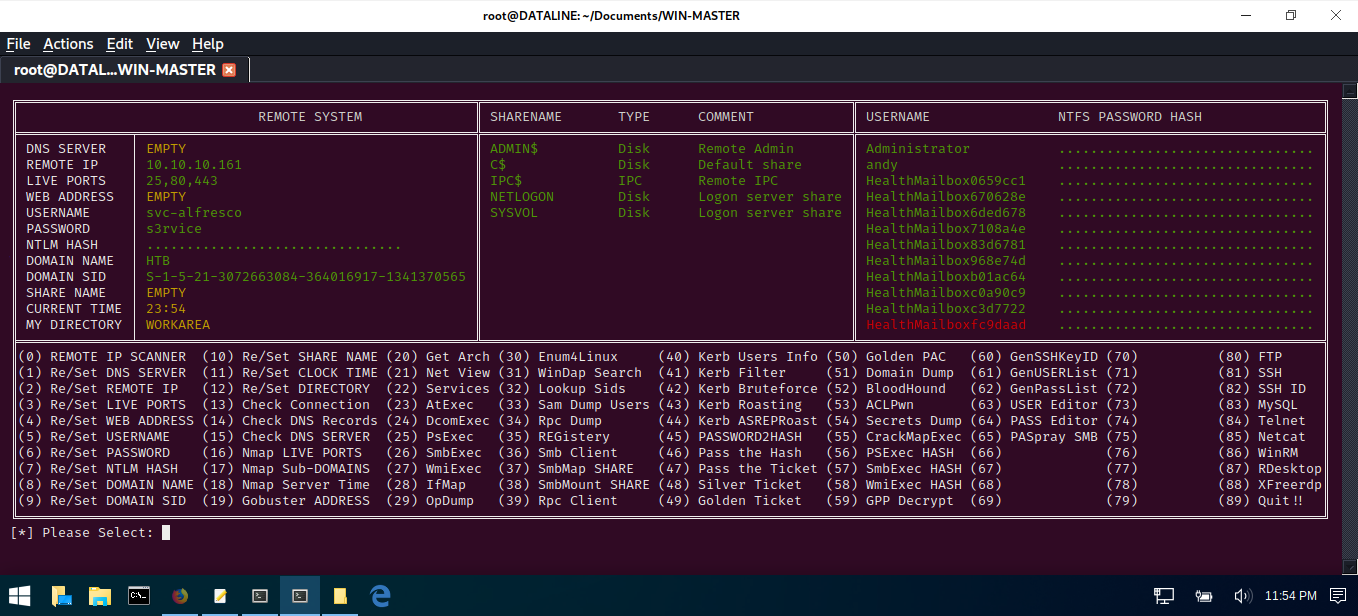
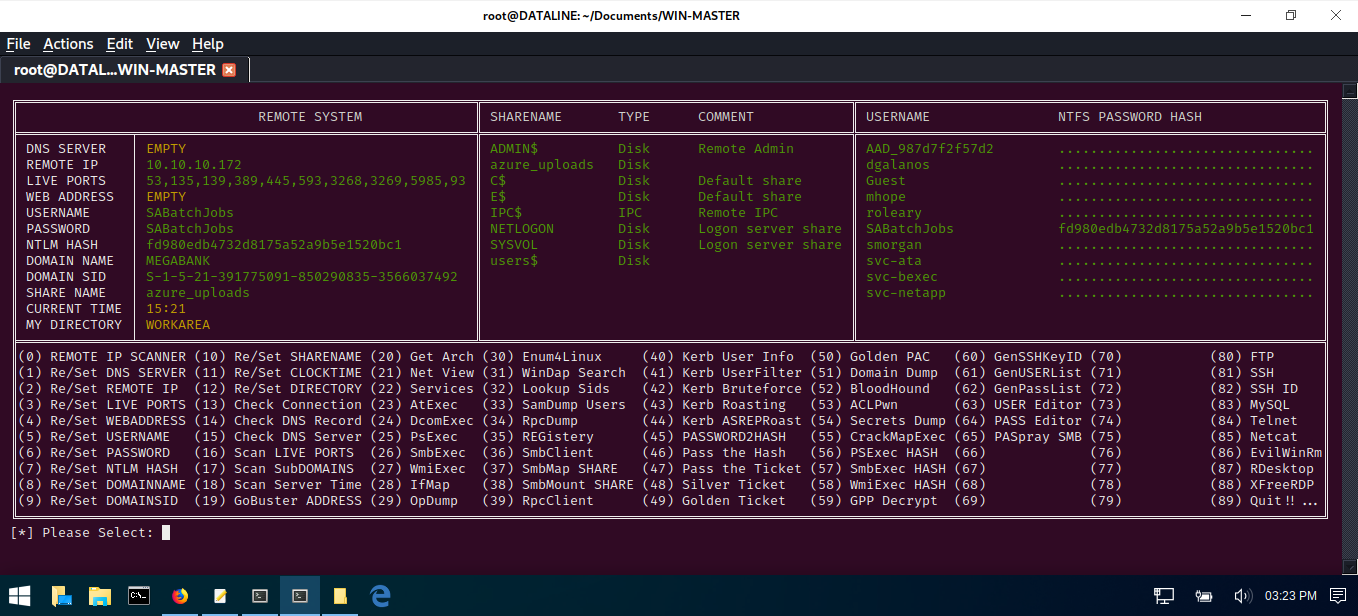
3dc1e1510ffa9c608b0bcf592f931c0d

diff --git a/WinMaster.py b/WinMaster.py
@@ -285,16 +285,16 @@ def display():
    print('\u2560' + ('\u2550')*14 + '\u2567'+ ('\u2550')*42 + '\u2569' + ('\u2550')*25 + '\u2550' + ('\u2550')*20 + '\u2569' + ('\u2550')*58 + '\u2563')
 
 def options():
-   print('\u2551' + "(0) REMOTE IP SCANNER  (10) Re/Set SHARE NAME (20) Get Arch (30) Enum4Linux     (40) Kerb Users Info (50) Golden PAC   (60) GenSSHKeyID (70)          (80) FTP     " + '\u2551')
-   print('\u2551' + "(1) Re/Set DNS SERVER  (11) Re/Set CLOCK TIME (21) Net View (31) WinDap Search  (41) Kerb Filter     (51) Domain Dump  (61) GenUSERList (71)          (81) SSH     " + '\u2551')
-   print('\u2551' + "(2) Re/Set REMOTE IP   (12) Re/Set DIRECTORY  (22) Services (32) Lookup Sids    (42) Kerb Bruteforce (52) BloodHound   (62) GenPassList (72)          (82) SSH ID  " + '\u2551')
-   print('\u2551' + "(3) Re/Set LIVE PORTS  (13) Check Connection  (23) AtExec   (33) Sam Dump Users (43) Kerb Roasting   (53) ACLPwn       (63) USER Editor (73)          (83) MySQL   " + '\u2551')
-   print('\u2551' + "(4) Re/Set WEB ADDRESS (14) Check DNS Records (24) DcomExec (34) Rpc Dump       (44) Kerb ASREPRoast (54) Secrets Dump (64) PASS Editor (74)          (84) Telnet  " + '\u2551')
-   print('\u2551' + "(5) Re/Set USERNAME    (15) Check DNS SERVER  (25) PsExec   (35) REGistery      (45) PASSWORD2HASH   (55) CrackMapExec (65) PASpray SMB (75)          (85) Netcat  " + '\u2551')
-   print('\u2551' + "(6) Re/Set PASSWORD    (16) Nmap LIVE PORTS   (26) SmbExec  (36) Smb Client     (46) Pass the Hash   (56) PSExec HASH  (66)             (76)          (86) WinRM   " + '\u2551')
-   print('\u2551' + "(7) Re/Set NTLM HASH   (17) Nmap Sub-DOMAINS  (27) WmiExec  (37) SmbMap SHARE   (47) Pass the Ticket (57) SmbExec HASH (67)             (77)          (87) RDesktop" + '\u2551')
-   print('\u2551' + "(8) Re/Set DOMAIN NAME (18) Nmap Server Time  (28) IfMap    (38) SmbMount SHARE (48) Silver Ticket   (58) WmiExec HASH (68)             (78)          (88) XFreerdp" + '\u2551')
-   print('\u2551' + "(9) Re/Set DOMAIN SID  (19) Gobuster ADDRESS  (29) OpDump   (39) Rpc Client     (49) Golden Ticket   (59) GPP Decrypt  (69)             (79)          (89) Quit!!  " + '\u2551')
+   print('\u2551' + "(0) REMOTE IP SCANNER (10) Re/Set SHARENAME (20) Get Arch (30) Enum4Linux     (40) Kerb User Info  (50) Golden PAC   (60) GenSSHKeyID (70)           (80) FTP      " + '\u2551')
+   print('\u2551' + "(1) Re/Set DNS SERVER (11) Re/Set CLOCKTIME (21) Net View (31) WinDap Search  (41) Kerb UserFilter (51) Domain Dump  (61) GenUSERList (71)           (81) SSH      " + '\u2551')
+   print('\u2551' + "(2) Re/Set REMOTE IP  (12) Re/Set DIRECTORY (22) Services (32) Lookup Sids    (42) Kerb Bruteforce (52) BloodHound   (62) GenPassList (72)           (82) SSH ID   " + '\u2551')
+   print('\u2551' + "(3) Re/Set LIVE PORTS (13) Check Connection (23) AtExec   (33) SamDump Users  (43) Kerb Roasting   (53) ACLPwn       (63) USER Editor (73)           (83) MySQL    " + '\u2551')
+   print('\u2551' + "(4) Re/Set WEBADDRESS (14) Check DNS Record (24) DcomExec (34) RpcDump        (44) Kerb ASREPRoast (54) Secrets Dump (64) PASS Editor (74)           (84) Telnet   " + '\u2551')
+   print('\u2551' + "(5) Re/Set USERNAME   (15) Check DNS Server (25) PsExec   (35) REGistery      (45) PASSWORD2HASH   (55) CrackMapExec (65) PASpray SMB (75)           (85) Netcat   " + '\u2551')
+   print('\u2551' + "(6) Re/Set PASSWORD   (16) Scan LIVE PORTS  (26) SmbExec  (36) SmbClient      (46) Pass the Hash   (56) PSExec HASH  (66)             (76)           (86) EvilWinRm" + '\u2551')
+   print('\u2551' + "(7) Re/Set NTLM HASH  (17) Scan SubDOMAINS  (27) WmiExec  (37) SmbMap SHARE   (47) Pass the Ticket (57) SmbExec HASH (67)             (77)           (87) RDesktop " + '\u2551')
+   print('\u2551' + "(8) Re/Set DOMAINNAME (18) Scan Server Time (28) IfMap    (38) SmbMount SHARE (48) Silver Ticket   (58) WmiExec HASH (68)             (78)           (88) XFreeRDP " + '\u2551')
+   print('\u2551' + "(9) Re/Set DOMAINSID  (19) GoBuster ADDRESS (29) OpDump   (39) RpcClient      (49) Golden Ticket   (59) GPP Decrypt  (69)             (79)           (89) Quit!!..." + '\u2551')
    print('\u255A' + ('\u2550')*163 + '\u255D')
 
 # -------------------------------------------------------------------------------------
@@ -589,13 +589,13 @@ while True:
 
    if selection =='1':
       BAK = DNS
-      DNS = input("\n[*] Please enter DNS SERVER name: ")
+      DNS = input("[*] Please enter DNS SERVER name: ")
 
       if DNS != "":
          if len(DNS) < COL1:
             DNS = padding(DNS, COL1)
          command("echo '" + TIP.rstrip(" ") + "\t" + DNS.rstrip(" ") + "' >> /etc/hosts")
-         print("\n[+] DNS SERVER " + DNS.rstrip(" ") + " has been added to /etc/hosts...")
+         print("[+] DNS SERVER " + DNS.rstrip(" ") + " has been added to /etc/hosts...")
          prompt()
       else:
          DNS = BAK      
@@ -610,7 +610,7 @@ while True:
 
    if selection =='2':
       BAK = TIP
-      TIP = input("\n[*] Please enter REMOTE IP address: ")
+      TIP = input("[*] Please enter REMOTE IP address: ")
 
       if TIP == "":
          TIP = BAK
@@ -656,7 +656,7 @@ while True:
 
    if selection == '4':
       BAK = WEB
-      WEB = input("\n[*] Please enter the web address: ")
+      WEB = input("[*] Please enter the web address: ")
 
       if WEB != "":
          if len(WEB) < COL1:
@@ -674,7 +674,7 @@ while True:
 
    if selection == '5':
       BAK = USR
-      USR = input("\n[*] Please enter USERNAME: ")
+      USR = input("[*] Please enter USERNAME: ")
 
       if USR == "":
          USR = BAK
@@ -695,7 +695,7 @@ while True:
 
    if selection == '6':
       BAK = PAS
-      PAS = input("\n[*] Please enter PASSWORD: ")
+      PAS = input("[*] Please enter PASSWORD: ")
 
       if PAS != "":
          if len(PAS) < COL1:
@@ -713,7 +713,7 @@ while True:
 
    if selection == '7':
       BAK = NTM
-      NTM = input("\n[*] Please enter HASH value: ")
+      NTM = input("[*] Please enter HASH value: ")
 
       if NTM != "":
          if len(NTM) < COL1:
@@ -731,7 +731,7 @@ while True:
 
    if selection == '8':
       BAK = DOM
-      DOM = input("\n[*] Please enter DOMAIN name: ")
+      DOM = input("[*] Please enter DOMAIN name: ")
 
       if DOM != "":
          if len(DOM) < COL1:
@@ -757,7 +757,7 @@ while True:
 
    if selection == '9':
       BAK = SID
-      SID = input("\n[*] Please enter DOMAIN SID value: ")
+      SID = input("[*] Please enter DOMAIN SID value: ")
 
       if SID != "":
          if len(SID) < COL1:
@@ -775,7 +775,7 @@ while True:
 
    if selection == '10':
       BAK = TSH
-      TSH = input("\n[*] Please enter SHARE name: ")
+      TSH = input("[*] Please enter SHARE name: ")
 
       if TSH != "":
          if len(TSH) < COL1:
@@ -793,7 +793,7 @@ while True:
 
    if selection == '11':
       BAK = LTM
-      LTM = input("\n[*] Please enter computer TIME: ")
+      LTM = input("[*] Please enter computer TIME: ")
 
       if LTM != "":
          command("date --set=" + LTM)
@@ -811,17 +811,17 @@ while True:
 # -------------------------------------------------------------------------------------
 
    if selection == '12':
-      directory = input("\n[*] Please enter new working DIRECTORY: ")
+      directory = input("[*] Please enter new working DIRECTORY: ")
 
       if os.path.exists(directory):
-         print("\n[-] Directory already exists....")
+         print("[-] Directory already exists....")
       else:
          if len(directory) > 0:
             os.mkdir(directory)
             DIR = directory
             if len(DIR) < COL1:
                DIR = padding(DIR, COL1)
-            print("\n[+] Working directory changed...")
+            print("[+] Working directory changed...")
       prompt()
 
 # ------------------------------------------------------------------------------------- 
@@ -899,10 +899,11 @@ while True:
       if TIP[:5] == "EMPTY":
          print("[-] Remote IP address has not been specified...")
       else:
-         print("[*] Scanning live ports only, please wait this can take some time...")
          if POR[:5] != "EMPTY":
+            print("[*] Scanning specified live ports only, please wait this can take some time...")
             command("nmap -p " + POR.rstrip(" ") + " -sC -sV " + TIP.rstrip(" "))
          else:
+            print("[*] Fast scanning all ports, please wait..")
             command("nmap -T4 -F " + TIP.rstrip(" "))
       prompt()
       
@@ -958,7 +959,10 @@ while True:
       if TIP[:5] == "EMPTY":
          print("\n[-] Remote IP address has not been specified...")
       else:
-         command("gobuster dir -k -u " + WEB.rstrip(" ") + " -e bak,zip,php,html,pdf,txt -f -w /usr/share/wordlists/dirb/common.txt -t 50")
+         if WEB[:5] != "EMPTY":
+            command("gobuster dir -k -u " + WEB.rstrip(" ") + " -x bak,zip,php,html,pdf,txt -f -w /usr/share/wordlists/dirb/common.txt -t 50")
+         else:
+            command("gobuster dir -k -u " + TIP.rstrip(" ") + " -x bak,zip,php,html,pdf,txt -f -w /usr/share/wordlists/dirb/common.txt -t 50")
       prompt()
       
 # ------------------------------------------------------------------------------------- 
@@ -1190,11 +1194,11 @@ while True:
       CheckParams = 0
 
       if DOM[:5] == "EMPTY":
-         print("\n[-] Domain name has not been specified...")
+         print("[-] Domain name has not been specified...")
          CheckParams = 1
 
       if TIP[:5] == "EMPTY":
-         print("\n[-] Remote IP address has not been specified...")
+         print("[-] Remote IP address has not been specified...")
          CheckParams = 1
 
       if CheckParams != 1:
@@ -1307,7 +1311,7 @@ while True:
          CheckParams = 1
 
       if CheckParams != 1:
-         print("[*] Enumerating, please wait...\n")
+         print("[*] Enumerating users, please wait this can take sometime...\n")
          os.remove("usernames.txt")					# DELETE CURRENT VERSION
          command("touch usernames.txt")					# CREATE EMPTY NEW ONE
          command(PATH + "samrdump.py " + DOM.rstrip(" ") + "/" + USR.rstrip(" ") + ":'" + PAS.rstrip(" ") +"'@" + TIP.rstrip(" ") + " > USERS.tmp")

diff --git a/README.md b/README.md
@@ -5,7 +5,7 @@ Usage: python3 WinMaster.py
 
 | LANGUAGE  | FILENAME         | MD5 Hash                         | Version |
 |------     |------            | -------                          | ----    |
-| python3   | WinMaster.py     | 50d93d69a8284c248423fa0496037a23 | Active  |
+| python3   | WinMaster.py     | 3dc1e1510ffa9c608b0bcf592f931c0d | Active  |
 
 - [x] Requires Impacket (https://github.com/SecureAuthCorp/impacket) to be installed.
 - [x] Requires Evil-WinRm (https://github.com/Hackplayers/evil-winrm) to be installed.
